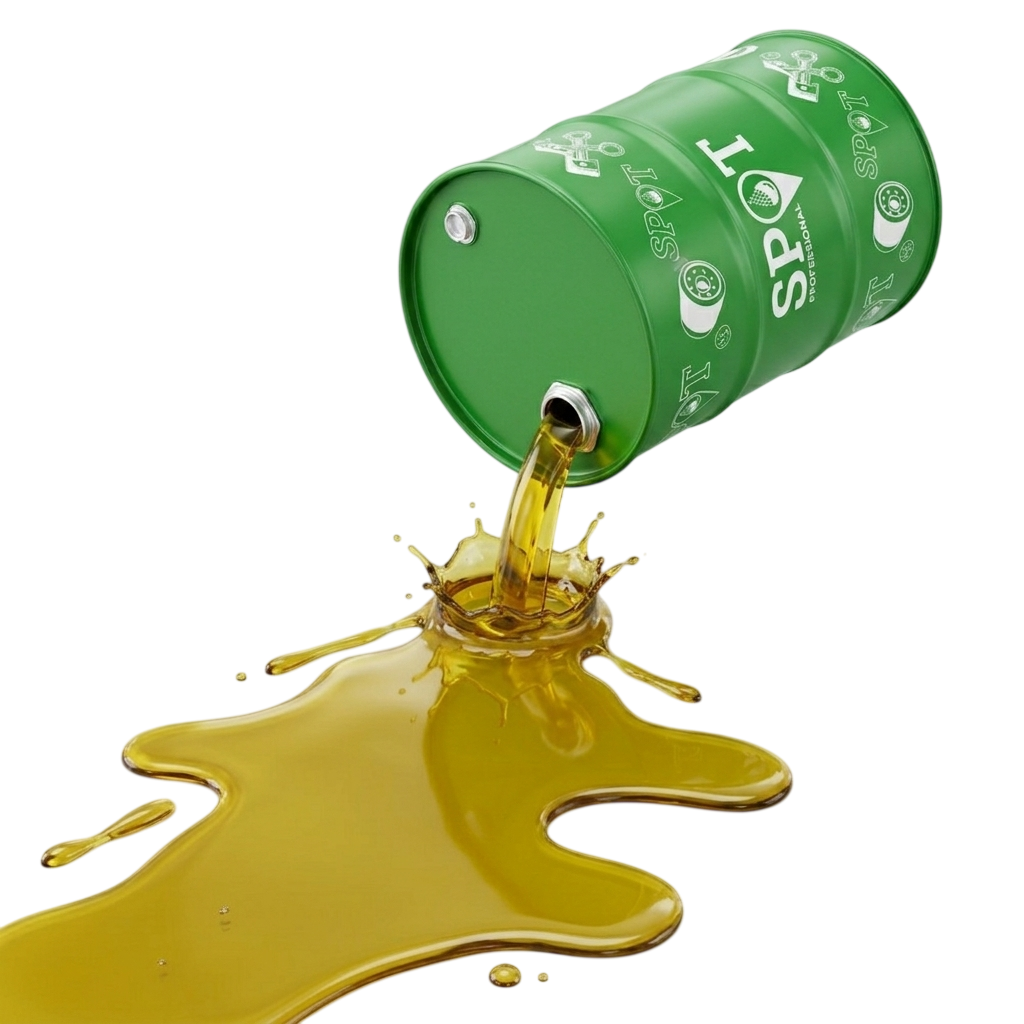
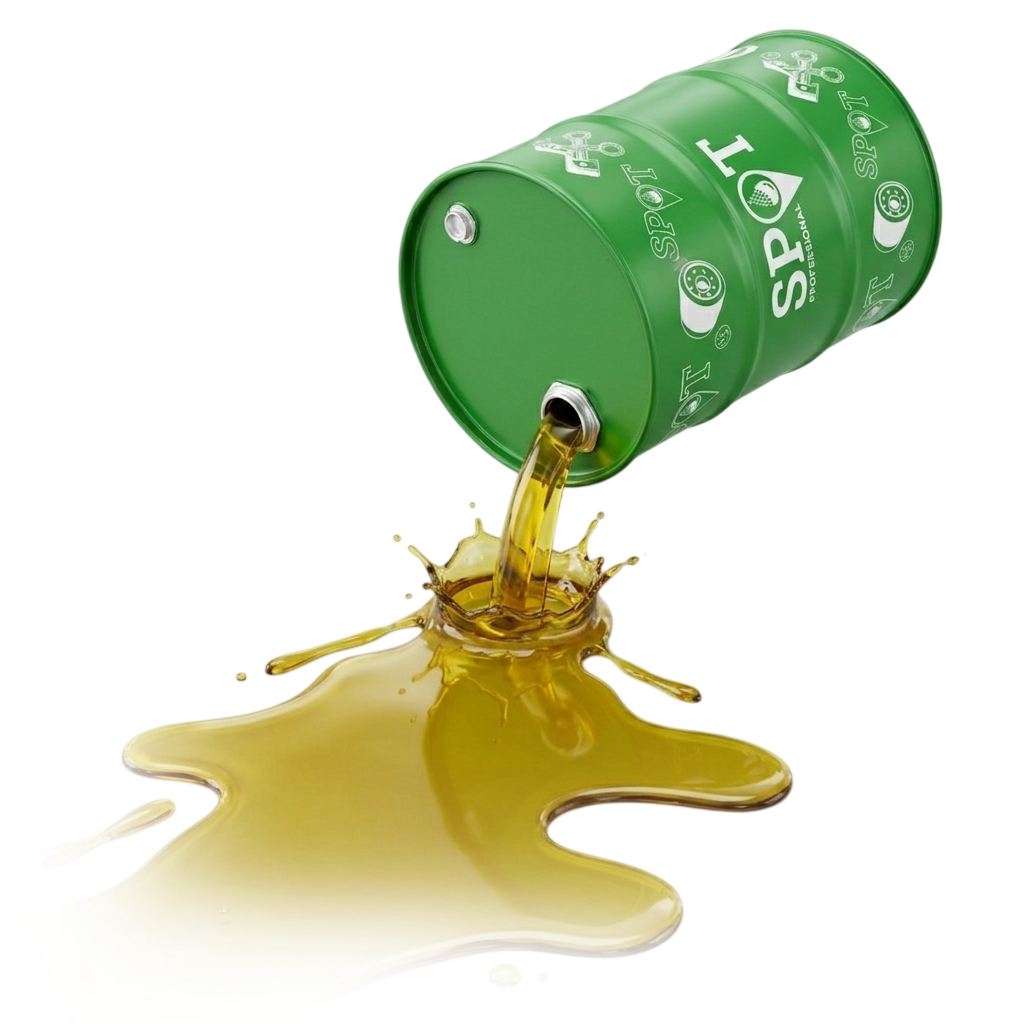
Little fix
changed barrel png
and fixed layers with barrel

Changed region(s): [[0.0, 0.6875, 0.6875, 1.0]]

diff --git a/styles.css b/styles.css
@@ -140,9 +140,10 @@ h5 { font-size: 0.95rem; text-transform: uppercase; letter-spacing: 0.08em; marg
 /* =========== HERO =========== */
 .hero {
   position: relative;
+  overflow: hidden;
   min-height: clamp(720px, 100vh, 1000px);
   padding: 9rem 2.5rem 5rem;
-  overflow: visible;
+  /*overflow: visible;*/
   display: flex;
   align-items: center;
   background: linear-gradient(180deg, #fafafa 0%, #ffffff 100%);
@@ -197,7 +198,7 @@ h5 { font-size: 0.95rem; text-transform: uppercase; letter-spacing: 0.08em; marg
   right: -2%;
   top: 6%;
   width: clamp(520px, 62vw, 980px);
-  z-index: 1;
+  z-index: 2;
   pointer-events: none;
   will-change: transform;
 }